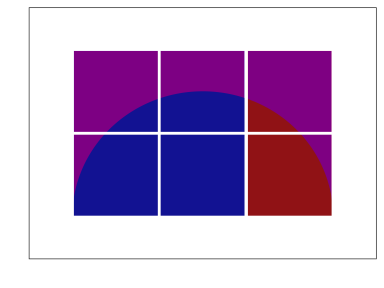
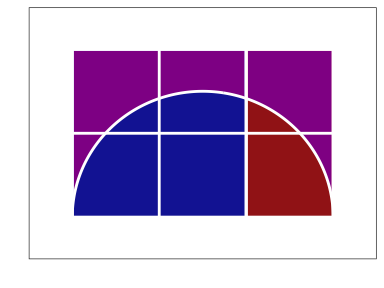
add white line to semicircle

diff --git a/README.md b/README.md
@@ -85,6 +85,10 @@ plt <-
             fill    = 'red',
             color   = 'white', 
             size    = 1) +
+  geom_line(mapping = aes(x = x, y=y),
+            data    = crcl,
+            color   = 'white',
+            size    = 1) +
   geom_vline(xintercept = 0:3, size = 1, color = 'white') +
   geom_hline(yintercept = 0:3, size = 1, color = 'white')
 
